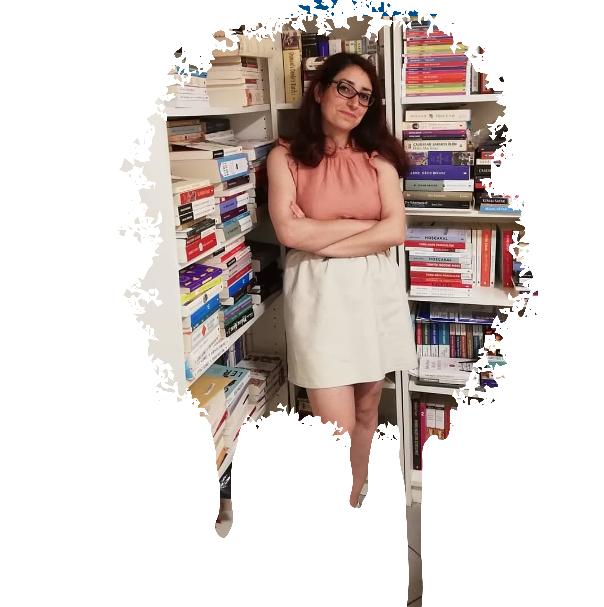
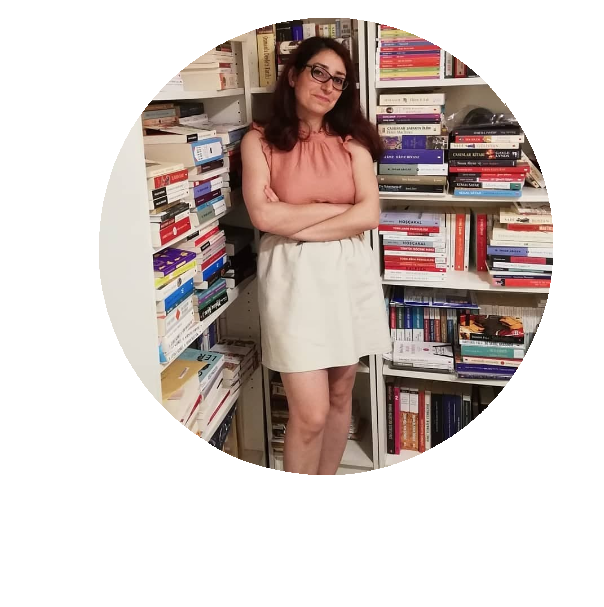
about sayfası responsive olarak ayarlandı

diff --git a/style.css b/style.css
@@ -62,6 +62,78 @@ footer .list-unstyled:hover
 }
 
 
+@media (max-width:575.98px) 
+{ 
+   
+   
+    .lead, .featurette-heading
+    {
+        font-size: 1.1rem!important;
+        ;
+    }
+    .featurette-image
+    {
+        width: 22rem!important;
+        height:22rem!important;
+        margin-top: 1rem auto !important;
+        
+    }
+
+}
+
+@media (min-width: 576px) and (max-width: 767.98px)
+ { 
+    .lead, .featurette-heading
+    {
+        font-size: 1.3rem!important;
+        
+    }
+    .featurette-image
+    {
+        width: 25rem!important;
+        height:25rem!important;
+        margin: 1rem auto !important;
+    }
+}
+
+
+ @media (min-width: 768px) and (max-width: 991.98px)
+  {
+    .lead, .featurette-heading
+    {
+        font-size: 1.2rem!important;
+        
+    }
+    .featurette-image
+    {
+        width: 25rem!important;
+        height:25rem!important;
+        margin: 1rem auto !important;
+    }
+}
+
+
+@media (min-width: 992px) and (max-width: 1199.98px) 
+{ 
+    .lead, .featurette-heading
+    {
+        font-size: 1.5rem!important;
+        
+    }
+    .featurette-image
+    {
+        width: 28rem!important;
+        height:28rem!important;
+        margin: 1rem auto !important;
+    }
+ }
+
+  
+
+
+
+
+
 /*about sayfası */
 
 
@@ -175,12 +247,7 @@ figure.zoom {
    }
  }
     
-   /*
-   
-   @media (min-width: 992px) and (max-width: 1199.98px) {  }
-   
-   // Extra large devices (large desktops, 1200px and up)
-   @media (min-width: 1200px) { ... }
+
 
 
 /*contact.html*/

diff --git a/contact.html b/contact.html
@@ -126,7 +126,7 @@
                               </div>
                             </div>
                           </div>
-                          <button class="btn btn-lg btn-primary" type="submit">Gönder</button>
+                          <button class="btn  btn-primary" type="submit">Gönder</button>
                         </form>
                         </div>
                 </div>

diff --git a/about.html b/about.html
@@ -82,6 +82,7 @@
               <p>Tasarlamak, yeni bir nesne veya ürün , mekân ve alan  için bir plan oluşturma ve geliştirme sürecine işaret eder.</p>
             </div>
           </div>
+          
       
         </div>
       </div>
